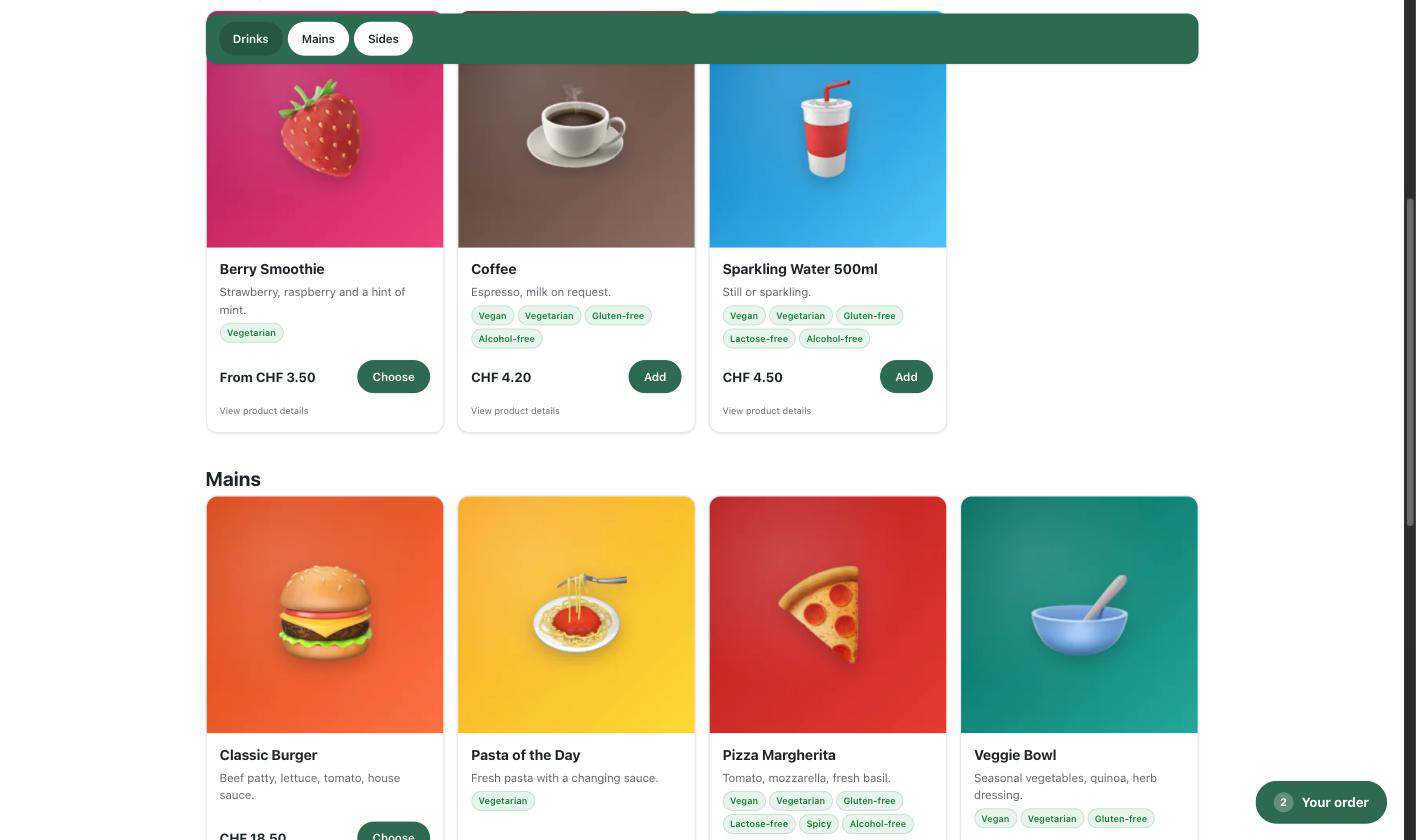
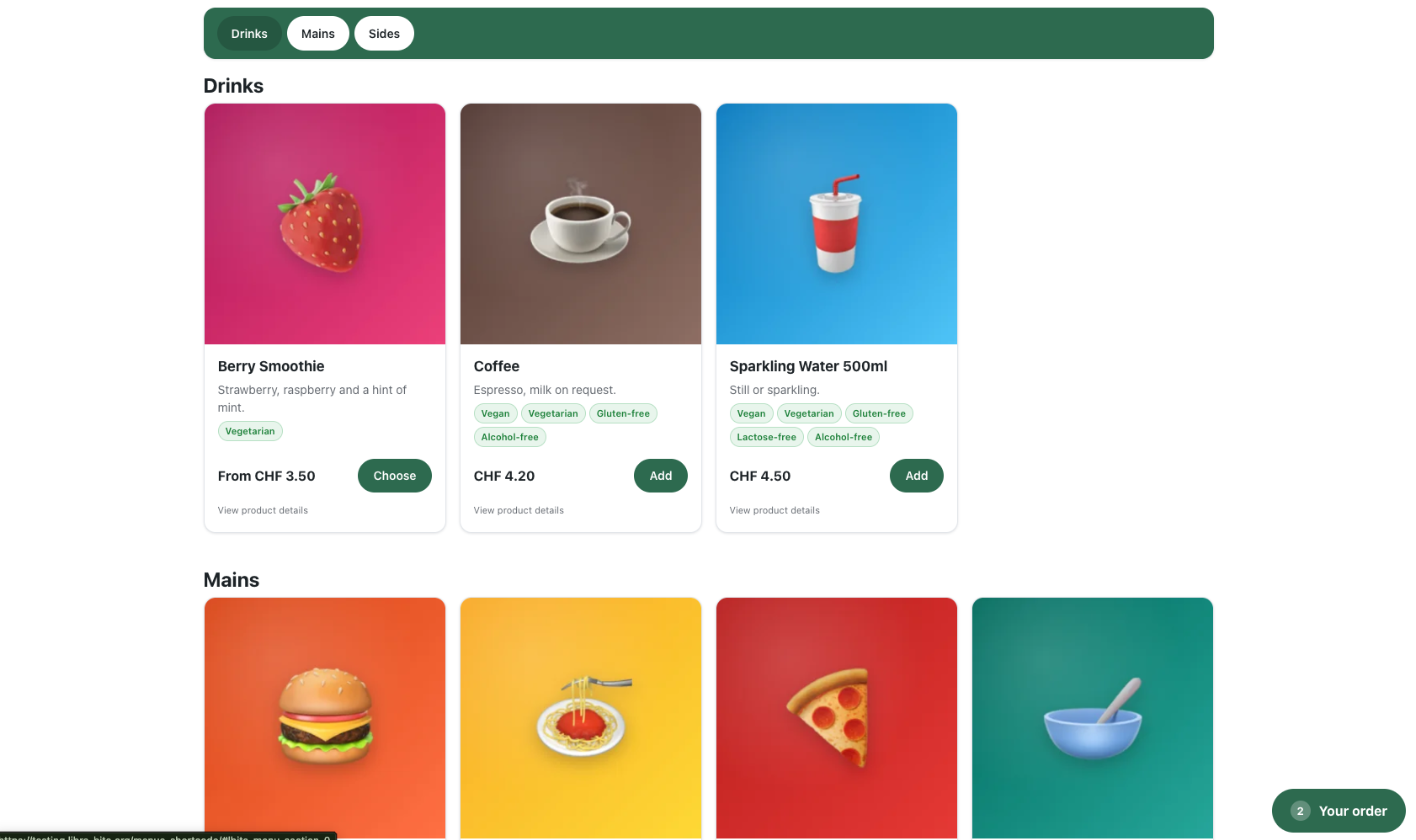
Erhöhe Version auf 3.6.16
Reine Doku-/Marketing-Version: aktualisierte READMEs, neuer Banner
und neue WP.org-Screenshots aus den letzten Commits. Keine
funktionalen Codeänderungen.

diff --git a/libre-bite.php b/libre-bite.php
@@ -3,7 +3,7 @@
  * Plugin Name:       Libre Bite
  * Plugin URI:        https://wordpress.org/plugins/libre-bite/
  * Description:       Complete order and location management system for WooCommerce restaurants and food businesses.
- * Version:           3.6.15
+ * Version:           3.6.16
  * Requires at least: 6.0
  * Tested up to:      7.1
  * Requires PHP:      8.1
@@ -79,7 +79,7 @@ if ( function_exists( 'lbite_freemius' ) ) {
 }
 
 // Plugin-Konstanten definieren
-define( 'LBITE_VERSION', '3.6.15' );
+define( 'LBITE_VERSION', '3.6.16' );
 define( 'LBITE_PLUGIN_FILE', __FILE__ );
 define( 'LBITE_PLUGIN_DIR', plugin_dir_path( __FILE__ ) );
 define( 'LBITE_PLUGIN_URL', plugin_dir_url( __FILE__ ) );

diff --git a/README.md b/README.md
@@ -6,7 +6,7 @@
 
 **Die WooCommerce-Erweiterung für Restaurants, Take-Aways, Cafés und Bars.**
 
-[![Stable Tag](https://img.shields.io/badge/stable-3.6.15-blue.svg)](https://github.com/simurech/libre-bite/releases)
+[![Stable Tag](https://img.shields.io/badge/stable-3.6.16-blue.svg)](https://github.com/simurech/libre-bite/releases)
 [![WordPress](https://img.shields.io/badge/WordPress-6.0%2B-21759b.svg)](https://wordpress.org/)
 [![WooCommerce](https://img.shields.io/badge/WooCommerce-8.0%2B-96588a.svg)](https://woocommerce.com/)
 [![PHP](https://img.shields.io/badge/PHP-8.1%2B-8892be.svg)](https://php.net/)
